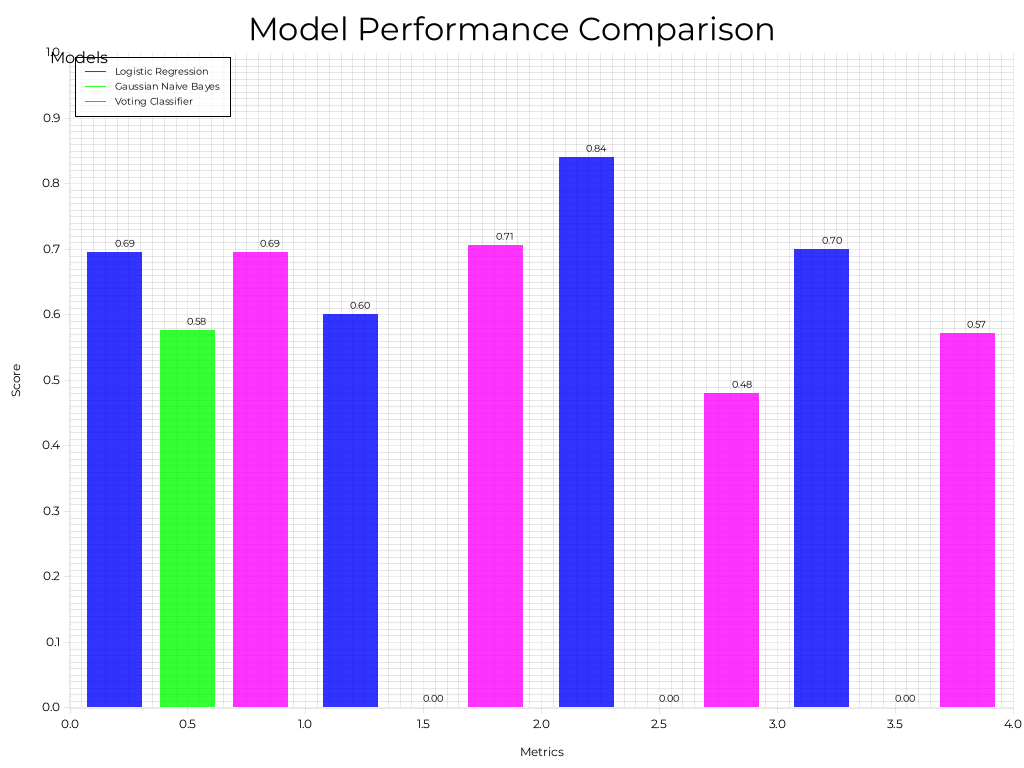
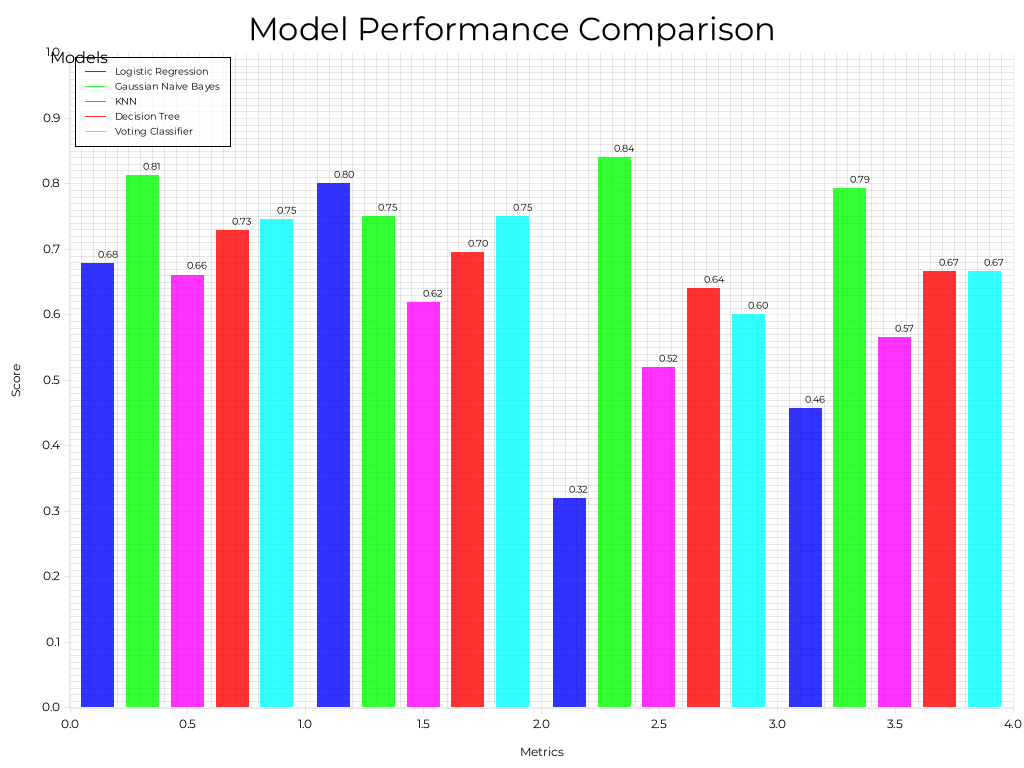
Fix build errors and GNB model prediction issues
- Fixed unclosed delimiter in visualization.rs
- Removed duplicate code in main.rs
- Fixed Gaussian Naive Bayes prediction logic to properly calculate posteriors
- Extended color palette in visualization to support all 5 models
- Cleaned up unused imports and variables
- Added new visualization outputs (confusion matrices, correlation matrix, etc.)

diff --git a/rust_heart_disease_predictor/src/preprocessing.rs b/rust_heart_disease_predictor/src/preprocessing.rs
@@ -90,3 +90,48 @@ pub fn train_test_split(
     let train_set = data.drain(..).collect();
     (train_set, test_set)
 }
+
+pub fn standardize_features(
+    data: &mut [ProcessedPatientRecord],
+) -> (Vec<f32>, Vec<f32>) {
+    if data.is_empty() {
+        return (Vec::new(), Vec::new());
+    }
+
+    let num_features = data[0].features.len();
+    let mut means = vec![0.0; num_features];
+    let mut std_devs = vec![0.0; num_features];
+
+    // Calculate means
+    for record in data.iter() {
+        for (i, &feature) in record.features.iter().enumerate() {
+            means[i] += feature;
+        }
+    }
+    for mean in means.iter_mut() {
+        *mean /= data.len() as f32;
+    }
+
+    // Calculate standard deviations
+    for record in data.iter() {
+        for (i, &feature) in record.features.iter().enumerate() {
+            std_devs[i] += (feature - means[i]).powi(2);
+        }
+    }
+    for std_dev in std_devs.iter_mut() {
+        *std_dev = (*std_dev / data.len() as f32).sqrt();
+    }
+
+    // Apply standardization
+    for record in data.iter_mut() {
+        for (i, feature) in record.features.iter_mut().enumerate() {
+            if std_devs[i] > 0.0 {
+                *feature = (*feature - means[i]) / std_devs[i];
+            } else {
+                *feature = 0.0; // Handle zero standard deviation (constant feature)
+            }
+        }
+    }
+
+    (means, std_devs)
+}

diff --git a/rust_heart_disease_predictor/src/visualization.rs b/rust_heart_disease_predictor/src/visualization.rs
@@ -1,7 +1,6 @@
 use plotters::prelude::*;
 use crate::evaluation::Metrics;
 use crate::preprocessing::ProcessedPatientRecord;
-use std::collections::HashMap;
 
 pub fn create_performance_comparison_chart(results: &[(&str, Metrics)], output_path: &str) -> Result<(), Box<dyn std::error::Error>> {
     let root = BitMapBackend::new(output_path, (1000, 600)).into_drawing_area();
@@ -60,8 +59,10 @@ pub fn create_performance_comparison_chart(results: &[(&str, Metrics)], output_p
             ("sans-serif", 10).into_font(),
         )))?;
     }
-use crate::evaluation::Metrics;
-use plotters::prelude::*;
+
+    root.present()?;
+    Ok(())
+}
 
 pub fn save_performance_chart(results: &[(&str, Metrics)]) -> Result<(), Box<dyn std::error::Error>> {
     let root = BitMapBackend::new("performance_chart.png", (1024, 768)).into_drawing_area();
@@ -87,7 +88,13 @@ pub fn save_performance_chart(results: &[(&str, Metrics)]) -> Result<(), Box<dyn
         .axis_style(&BLACK.mix(0.1)) // Subtle Y-axis grid lines
         .draw()?;
 
-    let colors = [BLUE.mix(0.8), GREEN.mix(0.8), MAGENTA.mix(0.8)];
+    let colors = [
+        BLUE.mix(0.8), 
+        GREEN.mix(0.8), 
+        MAGENTA.mix(0.8),
+        RED.mix(0.8),
+        CYAN.mix(0.8),
+    ];
     results.iter().enumerate().for_each(|(i, (name, metrics))| {
         let data = [
             metrics.accuracy,

diff --git a/rust_heart_disease_predictor/src/main.rs b/rust_heart_disease_predictor/src/main.rs
@@ -13,7 +13,7 @@ use models::{
 };
 use ensemble::VotingClassifier;
 use evaluation::{calculate_metrics, print_comparison_table};
-use visualization::{save_performance_chart, save_confusion_matrix};
+use visualization::save_performance_chart;
 
 fn main() {
     println!("Rust Heart Disease Predictor");
@@ -30,12 +30,6 @@ fn main() {
 
     // Split data
     let (train_set, test_set) = preprocessing::train_test_split(&mut records, 0.2);
-
-    // Create individual models
-    let lr = LogisticRegression::new(0.01, 1000);
-    let gnb = GaussianNB::new();
-    let knn = KNN::new(5);
-    let dt = DecisionTree::new(10, 2);
 
     // Create ensemble with all four models
     let ensemble = VotingClassifier::new(vec![
@@ -69,10 +63,6 @@ fn main() {
         eprintln!("Error saving performance chart: {}", e);
     }
 
-    for (name, matrix) in &confusion_matrices {
-        print_confusion_matrix(name, *matrix);
-    }
-
     // Generate visualizations
     println!("Generating visualizations...");
     
@@ -100,10 +90,4 @@ fn main() {
     }
 
     println!("Visualizations generated successfully!");
-}
-    for (name, matrix) in confusion_matrices {
-        if let Err(e) = save_confusion_matrix(name, matrix) {
-            eprintln!("Error saving confusion matrix for {}: {}", name, e);
-        }
-    }
 }

diff --git a/rust_heart_disease_predictor/src/models/naive_bayes.rs b/rust_heart_disease_predictor/src/models/naive_bayes.rs
@@ -51,7 +51,7 @@ impl super::Model for GaussianNB {
 
     fn predict(&self, record: &ProcessedPatientRecord) -> u8 {
         let mut best_class = 0;
-        let mut max_posterior = -1.0;
+        let mut max_posterior = f32::NEG_INFINITY;
 
         for (class_value, class_stats) in self.stats.iter() {
             let mut posterior = class_stats.prior.ln();
@@ -61,9 +61,9 @@ impl super::Model for GaussianNB {
                     class_stats.mean[i],
                     class_stats.variance[i],
                 );
-                if likelihood > 0.0 {
-                    posterior += likelihood.ln();
-                }
+                // Add a small epsilon to avoid log(0)
+                let log_likelihood = (likelihood + 1e-10).ln();
+                posterior += log_likelihood;
             }
 
             if posterior > max_posterior {

diff --git a/rust_heart_disease_predictor/src/models/mod.rs b/rust_heart_disease_predictor/src/models/mod.rs
@@ -9,9 +9,3 @@ pub trait Model {
     fn train(&mut self, training_data: &[ProcessedPatientRecord]);
     fn predict(&self, record: &ProcessedPatientRecord) -> u8;
 }
-
-// Re-export the models for easier access
-pub use logistic_regression::LogisticRegression;
-pub use naive_bayes::GaussianNB;
-pub use knn::KNN;
-pub use decision_tree::DecisionTree;
